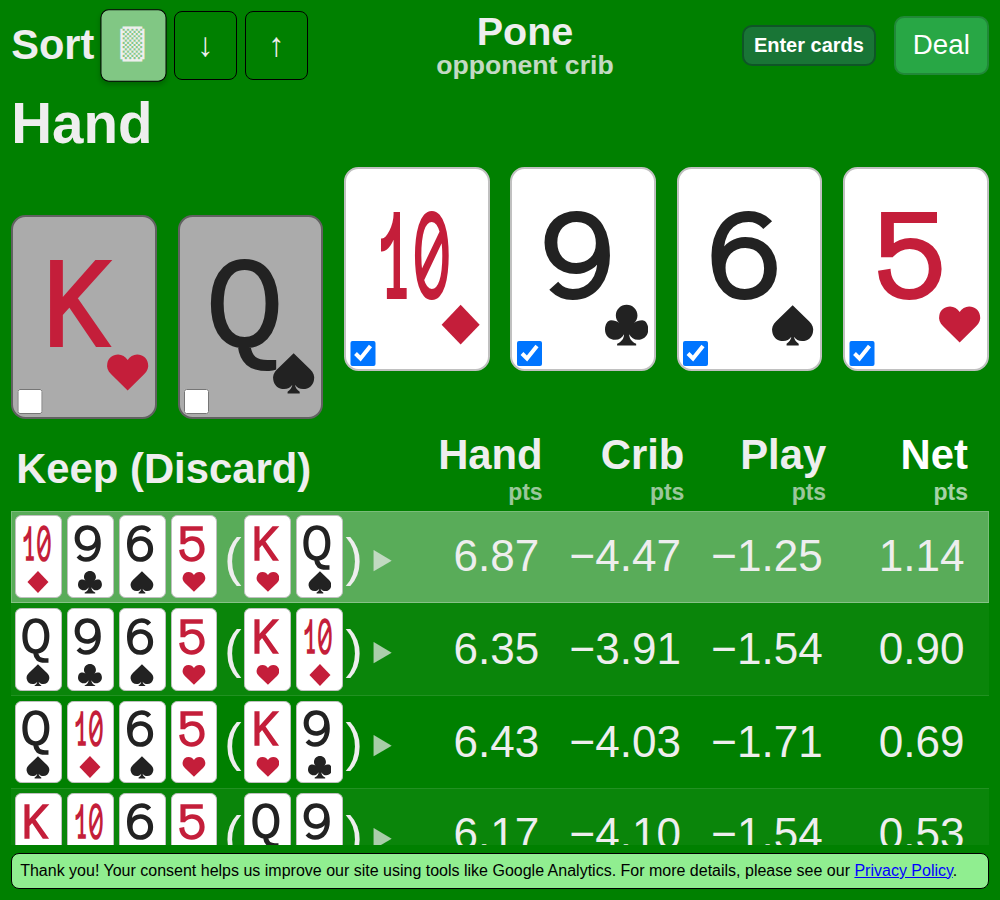
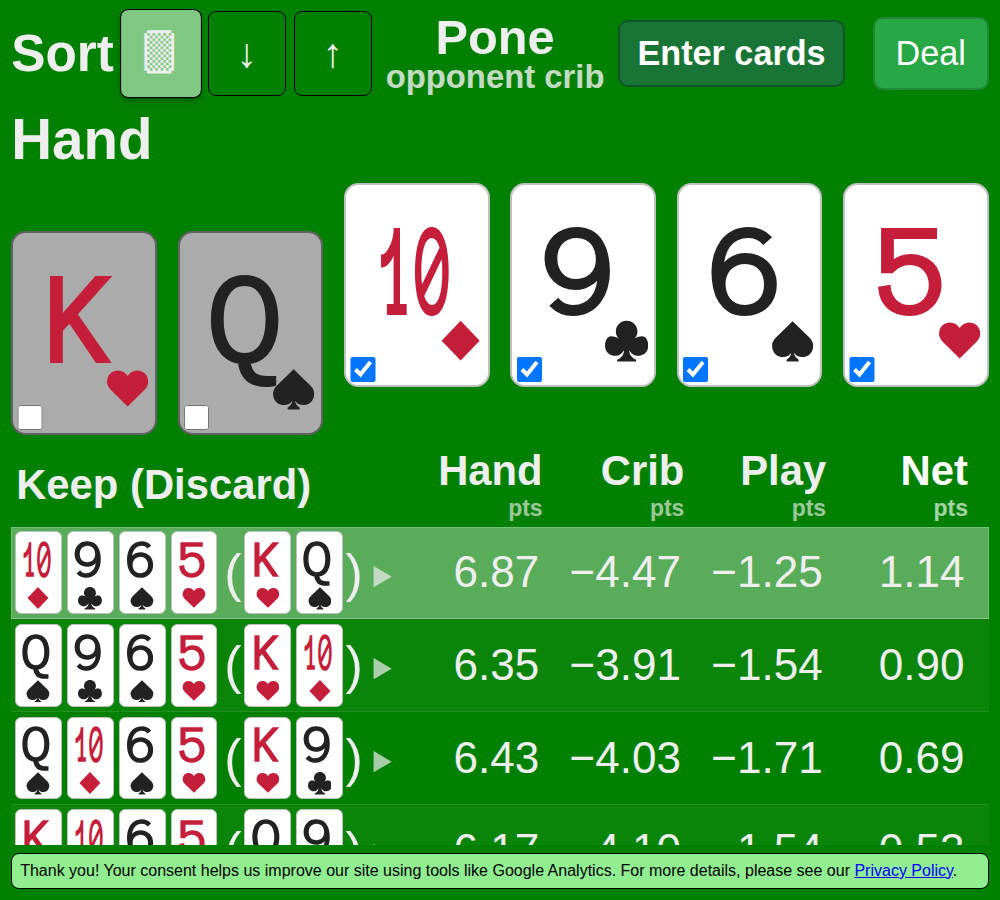
fix: size portrait controls in container units
Mobile browsers scale rem with the device font-size accessibility
setting, so the rem floors in the portrait controls' font clamps
made the nowrap Sort/role/Enter cards/Deal row overflow the screen
on real Android Chrome (Deal pushed off-screen, further for Pone's
wider label) while emulators at default font scale looked fine.

Size the stacked-mode controls entirely in container query units
(fonts, gaps, and the 400px container threshold formerly 25rem) so
the row is invariant to the root font size, matching the cards'
container-relative sizing. Add a Playwright guard that enlarges the
root font to 28px and asserts Deal stays within the portrait
viewport; it fails against the pre-fix CSS. Three baselines shift
by the sub-pixel gap rounding and the now-proportional near-square
Enter cards size.

diff --git a/tests-e2e/index.spec.ts b/tests-e2e/index.spec.ts
@@ -43,15 +43,34 @@ const rightEdge = (bounds: { width: number; x: number }) =>
 
 const phonePortraitViewport = { height: 844, width: 390 };
 
-test("portrait Pone controls stay within the viewport", async ({ page }) => {
+const expectDealButtonWithinPortraitViewport = async (
+  page: Page,
+  rootFontSize?: string,
+) => {
   await page.setViewportSize(phonePortraitViewport);
   await page.goto(poneHandQuery);
+  if (typeof rootFontSize === "string") {
+    await page.addStyleTag({
+      content: `html { font-size: ${rootFontSize}; }`,
+    });
+  }
 
   const dealBounds = await requireDealButtonBounds(page);
 
   expect(rightEdge(dealBounds)).toBeLessThanOrEqual(
     phonePortraitViewport.width,
   );
+};
+
+test("portrait Pone controls stay within the viewport", async ({ page }) => {
+  await expectDealButtonWithinPortraitViewport(page);
+});
+
+// Mobile browsers scale rem with the device font-size accessibility setting.
+test("portrait Pone controls stay within the viewport at an enlarged root font", async ({
+  page,
+}) => {
+  await expectDealButtonWithinPortraitViewport(page, "28px");
 });
 
 const cardAspectRatioAt = async (

diff --git a/src/ui-react/InteractiveHand.module.css b/src/ui-react/InteractiveHand.module.css
@@ -79,19 +79,25 @@
     container-type: inline-size;
   }
 
+  /*
+   * Invariant: the stacked-mode controls row always fits the viewport. Every
+   * font and gap is container-relative (cqw), never rem, because mobile
+   * browsers scale rem with the device font-size setting and rem floors made
+   * the nowrap controls overflow past the screen edge on such devices.
+   */
   .controls {
-    --medium-text-font-size-portrait: clamp(1.15rem, 5.25cqw, 2.6rem);
+    --medium-text-font-size-portrait: 5.25cqw;
 
-    gap: 0.25rem;
+    gap: 1.1cqw;
   }
 
   .deal-actions {
     flex-shrink: 0;
-    gap: 0.25rem;
+    gap: 1.1cqw;
   }
 
   .enter-cards {
-    font-size: clamp(0.8rem, 2.6cqw, 1.25rem);
+    font-size: 3.5cqw;
     padding: 0.35em 0.5em;
   }
 
@@ -109,13 +115,13 @@
     padding: 0;
   }
 
-  @container (max-width: 25rem) {
+  @container (max-width: 400px) {
     .controls {
-      gap: 0.15rem;
+      gap: 0.65cqw;
     }
 
     .deal-actions {
-      gap: 0.15rem;
+      gap: 0.65cqw;
     }
 
     .enter-cards {